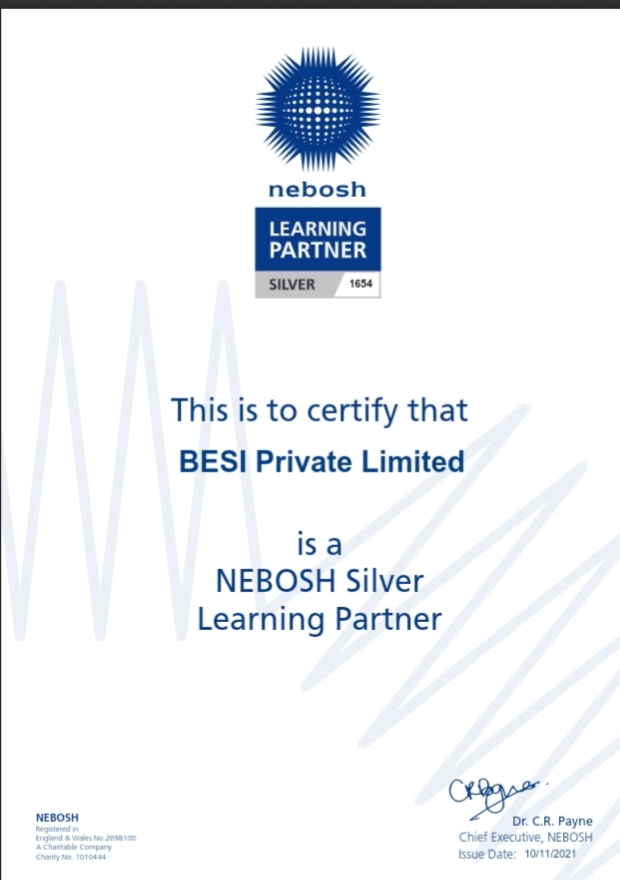
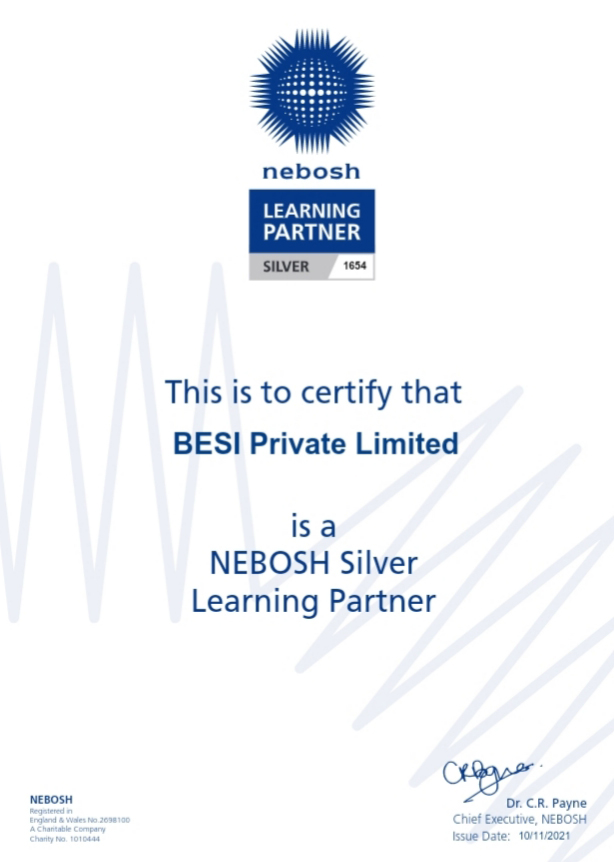
nebosh certification added on nebosh page

diff --git a/src/components/Home/Pages/Courses/CourseDetails/Nebosh.jsx b/src/components/Home/Pages/Courses/CourseDetails/Nebosh.jsx
@@ -1,6 +1,7 @@
 import React from 'react';
 
 import NebosModal from './NebosModal';
+import neboshCertificate from '../../../../../assets/nesbosh-certificate.jpeg';
 
 const Nebosh = () => {
     return (
@@ -19,43 +20,62 @@ const Nebosh = () => {
             <div className='container'>
                 <div className='nebosh-header pt-5 py-5'>
                     <h2 className='text-center p-3 rounded h1'>NEBOSH IGC</h2>
-                    <div className='row'>
+                    <div className='row m-2'>
                         <div className='col-xl-12 col-lg-12 col-md-12 col-sm-12 col-xs-12 pt-5 py-5'>
-                            <p className=' text-center'>
-                                NEBOSH International General Certificate is one
-                                of the fastest growing qualifications in the
-                                field of health and safety. This brings an
-                                enthusiastic demand for this course all over the
-                                world. BESI Private Limited is the leading body
-                                to provide NEBOSH IGC training from Bangladesh,
-                                to the train ees worldwide. Every session, BESI
-                                registers candidates from Dubai, Singapore,
-                                Qatar, Oman, India, Pakistan and Bangladesh.
-                            </p>
-                            <NebosModal />
+                            <div className='row border py-3 pt-3 rounded'>
+                                <div className='col-xl-8 col-lg-8 col-md-8 col-sm-12 col-xs-12 '>
+                                    <p className=''>
+                                        NEBOSH International General Certificate
+                                        is one of the fastest growing
+                                        qualifications in the field of health
+                                        and safety. This brings an enthusiastic
+                                        demand for this course all over the
+                                        world. BESI Private Limited is the
+                                        leading body to provide NEBOSH IGC
+                                        training from Bangladesh, to the train
+                                        ees worldwide. Every session, BESI
+                                        registers candidates from Dubai,
+                                        Singapore, Qatar, Oman, India, Pakistan
+                                        and Bangladesh.
+                                    </p>
+                                    <div className='single-information'>
+                                        <h4>
+                                            NATIONAL EXAMINATION BOARD IN
+                                            OCCUPATIONAL SAFETY AND HEALTH
+                                        </h4>
+                                        <p>
+                                            The NEBOSH International General
+                                            Certificate in Occupational Health &
+                                            Safety Training course is done to
+                                            implement safety system in various
+                                            industrial factories and projects.
+                                            This course is based on the UK's
+                                            world leading standard. NEBOSH IGC
+                                            is one of the most recommended
+                                            courses for safety professionals.
+                                            More than 90,000 people around the
+                                            world are holding this prestigious
+                                            certificate.
+                                        </p>
+                                    </div>
+                                </div>
+                                <div className='col-xl-4 col-lg-4 col-md-4 col-sm-12 col-xs-12'>
+                                    <div className='d-flex justify-content-center'>
+                                        <img
+                                            className='shadow-lg '
+                                            src={neboshCertificate}
+                                            alt=''
+                                            width='50%'
+                                        />
+                                    </div>
+                                </div>
+                            </div>
+                            {/* <NebosModal /> */}
                         </div>
                     </div>
 
                     <div className='row m-2'>
                         <div className='col-xl-12 col-lg-12 col-md-12 col-sm-12 col-xs-12 border py-3 pt-3 rounded'>
-                            <div className='single-information'>
-                                <h4>
-                                    NATIONAL EXAMINATION BOARD IN OCCUPATIONAL
-                                    SAFETY AND HEALTH
-                                </h4>
-                                <p>
-                                    The NEBOSH International General Certificate
-                                    in Occupational Health & Safety Training
-                                    course is done to implement safety system in
-                                    various industrial factories and projects.
-                                    This course is based on the UK's world
-                                    leading standard. NEBOSH IGC is one of the
-                                    most recommended courses for safety
-                                    professionals. More than 90,000 people
-                                    around the world are holding this
-                                    prestigious certificate.
-                                </p>
-                            </div>
                             <div className='details-info'>
                                 <h5>➢ Aim or Purpose(why this course)</h5>
                                 <div className='main-list'>
